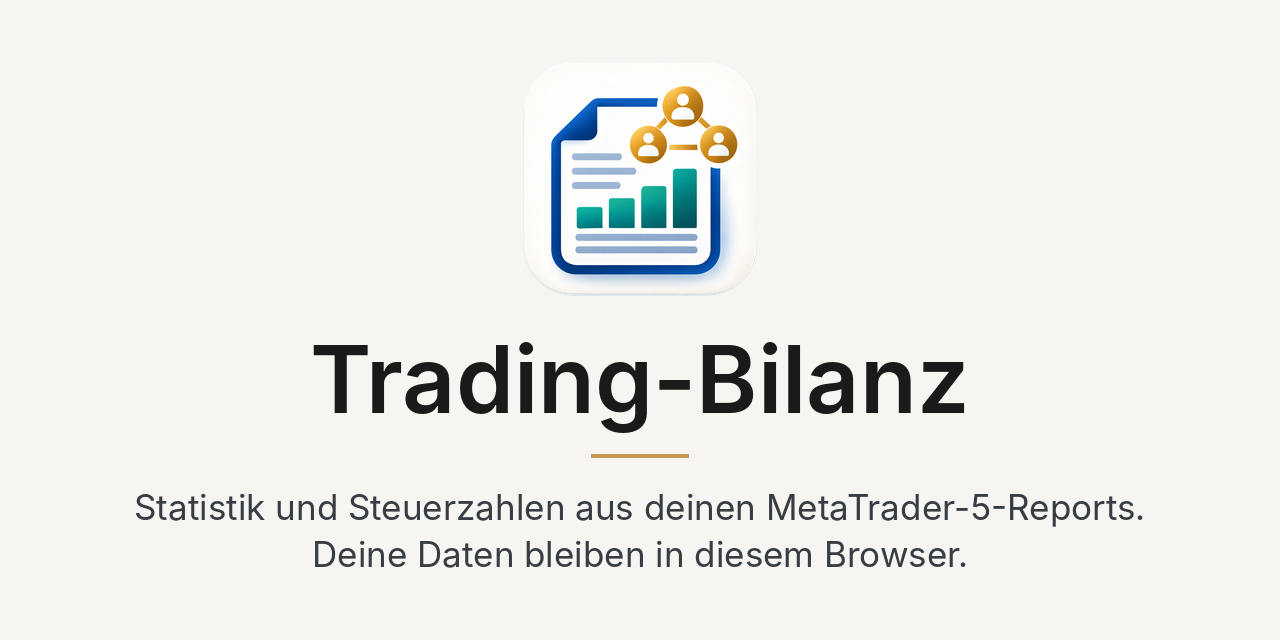
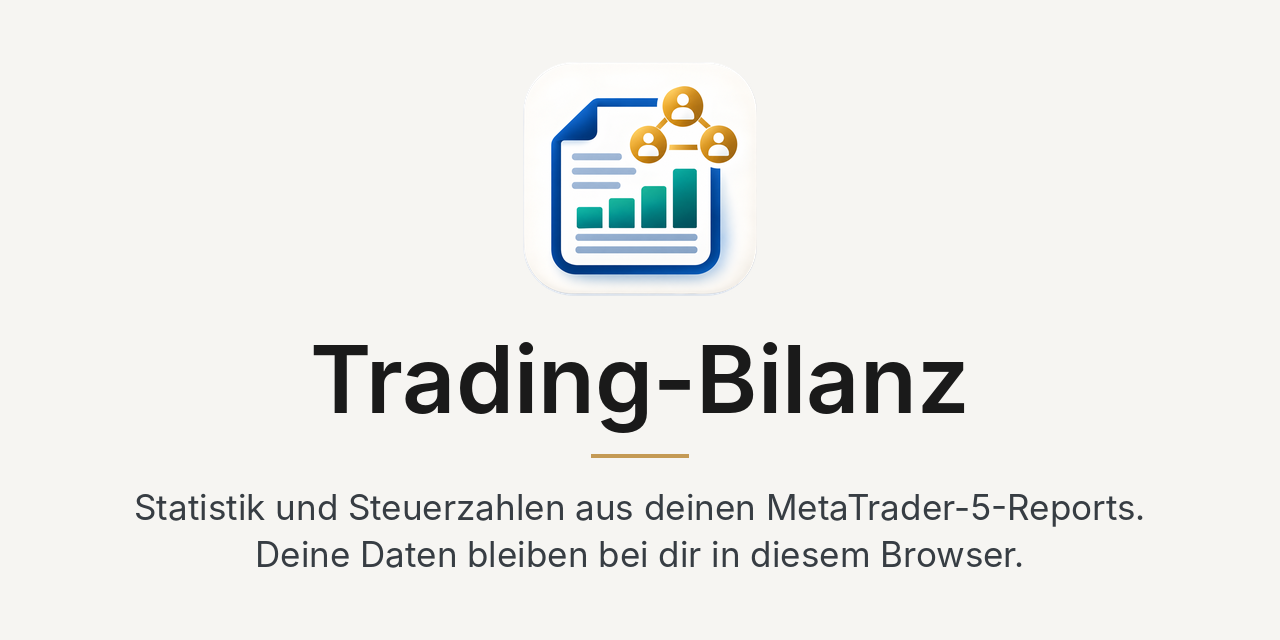
0.90 Nachtrag 2: „Deine Daten bleiben bei dir in diesem Browser.“ auch im Untertitel des Tools, in den Vorschaubildern (Skript) und im Alt-Text der Anleitung
Claude-Session: https://claude.ai/code/session_015D3DkTVVkbqZWsJAS4XUGR

Changed region(s): [[0.1875, 0.8438, 0.8125, 0.9062]]

diff --git a/trading-bilanz.html b/trading-bilanz.html
@@ -1279,7 +1279,7 @@ tr.wk.open .wl{display:block;height:0;overflow:hidden;visibility:hidden}
 <body>
 <header>
[1 lines of base64/hex data omitted]
-  <p class="sub">Statistik und Steuerzahlen aus deinen MetaTrader-5-Reports. Deine Daten bleiben in diesem Browser.</p>
+  <p class="sub">Statistik und Steuerzahlen aus deinen MetaTrader-5-Reports. Deine Daten bleiben bei dir in diesem Browser.</p>
 </header>
 <nav><div class="in" id="tabs"></div><div id="fbar" class="noprint"><div class="fin"><div class="fdd" id="fdd-range"><button type="button" class="fsel" id="fb-range" aria-expanded="false" aria-controls="fp-range" title="Zeitraum wählen"></button><div class="fpan" id="fp-range" role="dialog" aria-label="Zeitraum"></div></div><div class="fdd" id="fdd-acc"><button type="button" class="fsel" id="fb-acc" aria-expanded="false" aria-controls="fp-acc" title="Konten wählen"></button><div class="fpan" id="fp-acc" role="dialog" aria-label="Konten"></div></div><div class="fdd" id="fdd-pf"><button type="button" class="fsel" id="fb-pf" aria-expanded="false" aria-controls="fp-pf" title="Performance Fee laut MT5 oder auf die Trades verteilt"></button><div class="fpan" id="fp-pf" role="dialog" aria-label="Performance Fee"></div></div><div class="fdd" id="fdd-cur"><button type="button" class="fsel" id="fb-cur" aria-expanded="false" aria-controls="fp-cur" title="Beträge in Euro oder in USD"></button><div class="fpan" id="fp-cur" role="dialog" aria-label="Währung"></div></div></div></div><div id="wbar" class="noprint"><div class="fin"><div class="fdd" id="fdd-wr"><button type="button" class="fsel" id="fb-wr" aria-expanded="false" aria-controls="fp-wr" title="Zeitraum der Wallet-Seite wählen"></button><div class="fpan" id="fp-wr" role="dialog" aria-label="Zeitraum"></div></div><button type="button" class="fsel wbb" id="wb-dt"></button><button type="button" class="fsel wbb" id="wb-wl"></button><button type="button" class="fsel wbb" id="wb-td"></button></div></div></nav>
 <main>

diff --git a/anleitung.html b/anleitung.html
@@ -14,7 +14,7 @@
 <meta property="og:image" content="https://trading-bilanz.github.io/icons/vorschau-trading-bilanz.png">
 <meta property="og:image:width" content="1200">
 <meta property="og:image:height" content="630">
-<meta property="og:image:alt" content="Icon der Trading-Bilanz, darunter der Name und der Satz: Statistik und Steuerzahlen aus deinen MetaTrader-5-Reports. Deine Daten bleiben in diesem Browser.">
+<meta property="og:image:alt" content="Icon der Trading-Bilanz, darunter der Name und der Satz: Statistik und Steuerzahlen aus deinen MetaTrader-5-Reports. Deine Daten bleiben bei dir in diesem Browser.">
 <meta property="og:locale" content="de_AT">
 <meta name="twitter:card" content="summary_large_image">
 <link rel="icon" type="image/png" sizes="32x32" href="icons/icon-trading-bilanz-32.png">

diff --git a/icons/icons-erzeugen.py b/icons/icons-erzeugen.py
@@ -57,7 +57,7 @@ VORSCHAU = [
 TITEL = 'Trading-Bilanz'
 UNTERTITEL = [  # je Eintrag eine Zeile
     'Statistik und Steuerzahlen aus deinen MetaTrader-5-Reports.',
-    'Deine Daten bleiben in diesem Browser.',
+    'Deine Daten bleiben bei dir in diesem Browser.',
 ]
 FARBE_GRUND = '#f6f5f2'   # --bg
 FARBE_TITEL = '#1a1a1a'   # --ink
